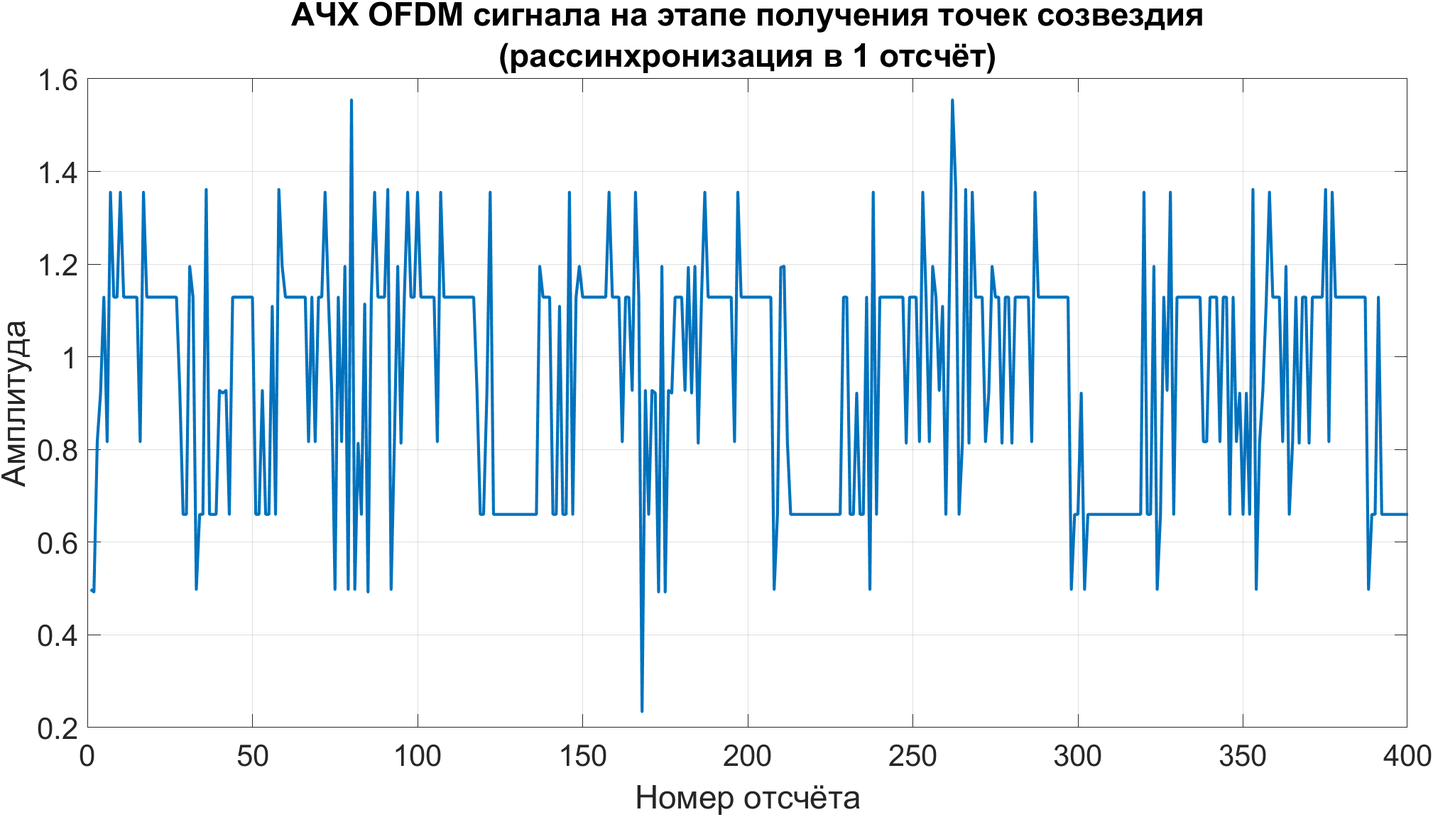
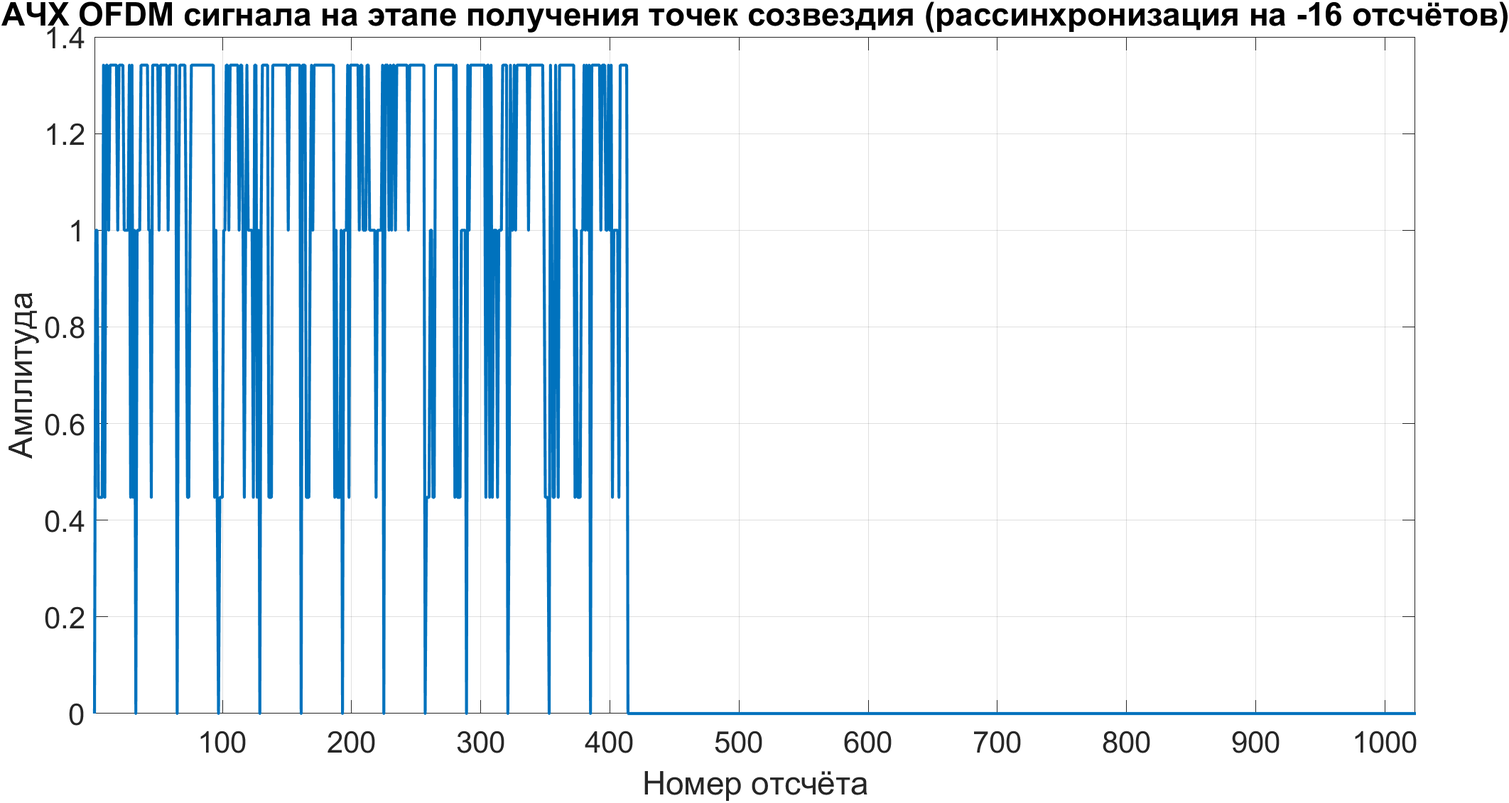
Task 1: fixes made, report reworked

Changed region(s): [[0.0, 0.0, 0.999, 0.9903], [0.9678, 0.8974, 0.999, 0.9593]]

diff --git a/Task 1/Main_model.m b/Task 1/Main_model.m
@@ -23,7 +23,7 @@ input_bits = file_reader(File, Size_Buffer);
 
 %% 3. Формирование полосы
 allCarriers = linspace(1,Nfft,Nfft); % индексы поднесущих
-P = 32;                   % кол-во пилотов
+P = 32;                   % кол-во пилотов на всех Nfft отсчётах
 pilotValue = 3+3j ;        % пилотное значение
 
 pilotCarriers = allCarriers(1:round(Nfft/(P)):end);
@@ -37,43 +37,51 @@ OFDM_symbols = OFDM_symbol(TX_IQ, N_carrier, N_symb, Nfft, dataCarriers, pilotCa
 Tx_OFDM_Signal_matrix = OFDM_modulator(OFDM_symbols, T_Guard); % lab 2
 
 % Tx_OFDM_Signal=Tx_OFDM_Signal_matrix(:);
-% Tx_OFDM_Signal=[Tx_OFDM_Signal_matrix(2:end),0]; % рассинхронизация на 1 отсчёт
-% Tx_OFDM_Signal=[Tx_OFDM_Signal_matrix(round(T_Guard/2)+1:end),zeros(1,round(T_Guard/2))]; % рассинхронизация на T_Guard/2 отсчётов
-Tx_OFDM_Signal=[Tx_OFDM_Signal_matrix(T_Guard+1:end),zeros(1,T_Guard)]; % рассинхронизация на T_Guard отсчётов
+
+%% 5.0 Временная рассинхронизация
+% nSTO = 0;
+% nSTO = 1;                % рассинхронизация на 1 отсчёт
+% nSTO = T_Guard/2;      % рассинхронизация на T_Guard/2 отсчётов
+nSTO = -T_Guard+1;        % рассинхронизация на T_Guard отсчётов
+Tx_OFDM_Signal=add_STO(Tx_OFDM_Signal_matrix(:),nSTO);
+
 %% 5. Канал
 %SNR_dB = 25;
 %[Rx_OFDM_Signal,~] = Noise(SNR_dB, Tx_OFDM_Signal);
-figure();
-plot(mean(abs(fft(Tx_OFDM_Signal_matrix,[],1)),2), 'LineWidth', 2);
-xlabel('Номер отсчёта');
-ylabel('Амплитуда')
-grid on
-set(gca, 'Fontsize', 20)
-title('АЧХ OFDM сигнала')
+% figure();
+% plot(mean(abs(fft(Tx_OFDM_Signal_matrix,Nfft,1)),2), 'LineWidth', 2);
+% xlabel('Номер отсчёта');
+% ylabel('Амплитуда')
+% grid on
+% set(gca, 'Fontsize', 20)
+% title('АЧХ OFDM сигнала')
 
 Rx_OFDM_Signal = Tx_OFDM_Signal;
 
 %% 6. Разделение сигнала на OFDM-символы
 Rx_OFDM_Signal =  reshape(Rx_OFDM_Signal,[Nfft+T_Guard, N_symb]);
 
-
 %% 7. OFDM-Демодуляция: удаление CP + переход в частотную область - получение точек созвездия
 RX_OFDM_symbols = OFDM_demodulator(Rx_OFDM_Signal, T_Guard);
 
-RX_IQ = get_payload(RX_OFDM_symbols,dataCarriers,N_carrier);
 figure();
-% plot(mean(abs((RX_IQ)),2), 'LineWidth', 2);
-plot((abs((RX_IQ(:,2)))), 'LineWidth', 2);
+% plot(mean(abs(RX_OFDM_symbols),2), 'LineWidth', 2);
+plot(abs(RX_OFDM_symbols(:,1)), 'LineWidth', 2);
 xlabel('Номер отсчёта');
 ylabel('Амплитуда')
+xlim([1,Nfft])
 grid on
 set(gca, 'Fontsize', 20)
-title('АЧХ OFDM сигнала на этапе получения точек созвездия')
+title_name = "АЧХ OFDM сигнала на этапе получения точек созвездия (рассинхронизация на " + num2str(nSTO) +" отсчётов)";
+title(title_name)
+
+RX_IQ = get_payload(RX_OFDM_symbols,dataCarriers,N_carrier);
 
 RX_IQ = RX_IQ(:).';
 
-
+title_name = "Созвездие на этапе получения IQ точек (рассинхронизация на " + num2str(nSTO) +" отсчётов)";
 scatterplot(RX_IQ(1:400));
+title(title_name)
 %% 8. Demapping
 output_bits = demapping(pad, RX_IQ, Constellation);
 
@@ -169,4 +177,15 @@ end
 % Извлечь данные из OFDM-символов
 function RX_IQ=get_payload(RX_OFDM_symbols, dataCarriers, N_carrier) 
     RX_IQ=RX_OFDM_symbols(dataCarriers(1:N_carrier),:);
+end
+
+function y_STO=add_STO(y, nSTO)
+    % add STO (symbol time offset)
+    % y : Received signal
+    % nSTO : Number of samples corresponding to STO
+    if nSTO>=0
+        y_STO=[y(nSTO+1:end); zeros(1,nSTO)']; % advance
+    else 
+        y_STO=[zeros(1,-nSTO)'; y(1:end+nSTO)]; % delay
+    end
 end

diff --git a/Task 1/README.md b/Task 1/README.md
@@ -2,37 +2,116 @@
 
 ## Квинтэссенция работы
 В этой работе реализован базовый OFDM приёмник и передатчик в среде программирования Matlab. Пайп лайн сигнала можно увидеть на картинке ниже. В качестве файла для передачи используется картинка орла, которая перводится в битовый формат и затем уже производится QAM-модуляция. При успешном приёме, реализован вывод полученной части картинки.
+
+**Параметры OFDM передачи**
+* Сигнальное созвездие: `16QAM`;
+* Длительной полезной части в количестве fft отсчётов: `N_fft = 1024`
+* Количество поднесущих в одном OFDM символе: `N_carrier = 400`
+* Длина защитного интервала: `T_Guard = Nfft/8`
+* Количество кадров: `Amount_OFDM_Frames = 10`
+* Количество генерируемых OFDM символов: `Amount_OFDM_Symbols_per_Frame = 5`
+
 ![Alt-text](<graphs/task1.png>)
-<img src="graphs/eagle.jpg" alt="Alt-text"  />
+_Рисунок №1. Пайплайн OFDM-системы_
 
-## АЧХ сигнала на основе OFDM
-Ниже представлен график амплитудно-частотной характеристики (АЧХ) OFDM-сигнала. Если быть точнее, то это усреднённая по 50 единицам АЧХ одного OFDM-символа. Сама АЧХ построена по уже сформированному OFDM-сигналу во времённой области путём взятия прямого пробразования Фурье. В силу этого, помимо полезной части сам сигнал содержит защитный интервал длиной в `T_guard=Nfft/8` отсчётов. В силу этого, на графике АЧХ можно наблюдать спектральные компоненты, которые вносят эти отчёты. В остальном, график такой, какой и ожидался: `N_carrier=400 отсчётов`, на которых мы "расположили" наши данные. 
+![Alt-text](<graphs/eagle.jpg>)
 
-_Отдельно стоит заметить, что в АЧХ выделяются резкие отрицательные пики в полосе полезного сигнала, а также количество отсчётов, где наблюдается ненулевая амплитуда, больше чем N_carrier. Так происходит в силу наличия пилотных поднесущих, которые заготовлены для будущего. Сейчас на эти "пилотные" поднесущие записывается нулевое значение, отсюда отрицательные пики вниз - если построить АЧХ одного символа, то они будут отчётливо видны, но поскольку здесь график усреднения, то они не достигают 0.__
-![Alt-text](<graphs/achx.png>)
-
+_Рисунок №2. Передаваемая картинка_
 ## Cтруктура OFDM-символа
-* Защитный интервал: это некоторое количество отсчётов сигнала, вставляемое между символами OFDM для уменьшения эффектов многолучевых помех, таких как отражения сигнала и разные задержки лучей этого сигнала. Это обеспечивает ортогональность между поднесущими, позволяя правильно разделять их в приемнике. Соответственно, минимальная длительность защитного интервала выбирается исходя из максимальной задержки в рассматриваемом канале. Защитный интервал обычно является копией конечной части символа OFDM, добавляемой в начале - cyclic prefix.
-* Data carriers: это поднесущие, которые передают фактические данные. Каждая поднесущая модулируется частью общего потока данных.
-* Pilot Carriers: это известные символы, вставляемые в символ OFDM, для осуществления оценки канала и эквалайзинга на приемнике. Они обеспечивают контрольные точки для определения канальной характеристики и её компенсации.
+* Защитный интервал: это часть сигнала, вставляемая между символами OFDM для сохранения возможности демодуляции OFDM-сигнала в присутствии многолучевых помех, таких как отражения сигнала и разные задержки лучей этого сигнала. Защитный интервал обеспечивает ортогональность между символами, позволяя правильно разделять их в приемнике. Соответственно, минимальная длительность защитного интервала выбирается исходя из максимальной задержки в рассматриваемом канале. В данной работе защитный интервал реализован в виде копии конечной части символа OFDM, добавляемой в начало этого же символа (cyclic prefix).
+![Alt-text](<graphs/GI.png>)
+_Рисунок №3. Схема добавления защитного интервала по принципу циклического префикса_
+* Data carriers: это поднесущие, которые передают фактические данные. Каждая поднесущая содержит в себе информацию об IQ-точке из общего потока данных.
+* Pilot Carriers: это поднесущие, которые содержат в себе известные значения для осуществления оценки канала и эквалайзинга на приемнике. Пилоты встраиваются в сигнал вместе с данными на этапе формирования полосы сигнала. Они обеспечивают контрольные точки для определения канальной характеристики и её компенсации.
 * Null Carriers _(опционально)_: в некоторых системах OFDM определенные поднесущие могут не использоваться для передачи данных или контрольных символов. Эти нулевые несущие помогают в дальнейшем уменьшении помех между соседними поднесущими.
 ![Alt-text](<graphs/symbol_structure_2.png>)
+_Рисунок №4. Структура OFDM-символа в частотной области_
+
+## АЧХ сигнала на основе OFDM
+На рисунке № 5 представлен график амплитудно-частотной характеристики (АЧХ) OFDM-сигнала. Если быть точнее, то это усреднённая по 50 единицам АЧХ одного OFDM-символа. Сама АЧХ построена по уже сформированному OFDM-сигналу во времённой области путём взятия прямого пробразования Фурье. В силу усреднения можно наблюдать различные уровни амплитуды внутри эффективной полосы сигнала (у АЧХ одного OFDM-символа набор значений амплитуд меньше, см. рисунок №4). Также отчётливо видны пилотные поднесущие, которые всё так же принимают нулевое значение. В целом, график такой, какой и ожидался: `N_carrier=400 отсчётов`, на которых мы "расположили" наши данные и пилотные значения. 
+
+__Ремарка насчёт пилотов: вообще, в данной работе не подразумевается их наличие. Здесь они присутствуют в силу следующих причин: 1) удобство для будущего кода; 2) большая наглядность, для чего пилотным поднесущим и было присвоено нулевое значение - его легко обнаружить на графике.__
+![Alt-text](<graphs/achx.png>)
+_Рисунок №5. Усреднённая по всему сигналу АЧХ одного OFDM-символа_
 
 ## АЧХ и сигнальное созвездие на этапе «получение точек созвездия»
+Рассмотрим всего 4 случая (case): 
+1. Идеальная временная синхронизация - когда мы правильно определили начало символа;
+2. Ситуация, когда мы предполагаем начало OFDM-символа до действительного начала этого символа, но после максимальной задержки в канале;
+3. Ситуация, когда мы предполагаем начало OFDM-символа до действительного начала этого символа, но теперь до максимальной задержки в канале;
+4. Ситуация, когда мы предполагаем начало OFDM-символа позже действительного его начала. 
+   
+![Alt-text](<graphs/cases.png>)
+_Рисунок №6. Различные случаи временной рассинхронизации_
 
-* АЧХ одного символа для разной рассинхронизации
+Все эти случаи показаны на `рисунке №6`. Теперь же посмотрим на АЧХ и сигнальное созвездие для каждого случая, за исключением 3, поскольку в рамках этой работы не предполагается моделирование многолучевого распространения, в силу чего для этого случая будет только приведено объяснение происходящего.
+
+### Случай 1. Идеальная временная синхронизация
 ![Alt-text](<graphs/achx1.png>)
-![Alt-text](<graphs/achx2.png>)
-![Alt-text](<graphs/achx3.png>)
-![Alt-text](<graphs/achx4.png>)
+_Рисунок №7. АЧХ при идеальной временной синхронизации_
 
-* Созвездие на этапе получения IQ-точек на приёмнике для разной рассинхронизации
 ![Alt-text](<graphs/scatter1.png>)
+_Рисунок №8. Сигнальное созвездие при идеальной временной синхронизации_
+
+Как и ожидалось, сигнальное созвездие является эталонным созвездием для выбранного типа модуляции - 16QAM, а АЧХ в точности совпадает с графиками рассмотренными ранее, например, на рисунке №4.
+
+### Случай 2. Опережение синхронизации (после максимальной задержки)
+![Alt-text](<graphs/achx2.png>)
+_Рисунок №9. АЧХ при опережении синхронизации_
+
 ![Alt-text](<graphs/scatter2.png>)
+_Рисунок №10. Сигнальное созвездие при опережении синхронизации_
+
+Как можно видеть, АЧХ не проявляет каких-либо видимых изменений, в то время как сигнальное созвездие "закрутилось". Из курса по одночастотной связи известно, что такое происходит при фазовой рассинхронизации, из чего можно выдвинуть предположение, что такой случай временной рассинхронизации приводит к фазовому сдвигу сигнала. Убедимся в этом с помощью математики:
+![Alt-text](<graphs/case2.png>)
+_Рисунок №11. Объяснение случая №2: опережения синхронизации_
+
+**Таким образом, опережение синхронизации приводит к фазовому сдвигу и как мы увидим далее - пожалуй, это наиболее легко компенсируемый случай временной рассинхронизации.**
+
+### Случай 3. Сильное опережение синхронизации (до максимальной задержки)
+![Alt-text](<graphs/achx3.png>)
+_Рисунок №12. АЧХ при сильном опережении синхронизации_
+
 ![Alt-text](<graphs/scatter3.png>)
+_Рисунок №13. Сигнальное созвездие при сильном опережении синхронизации_
+
+АЧХ и сигнальное созвездие мало чем отличается от случая 2, поскольку как уже было отмечено ранее, в этой работе не моделируется многолучевое распространение. Но объяснение следующее: синхронизация символов слишком ранняя для предотвращения межсимвольной интерференции (ISI). В этом случае ортогональность между символами нарушается из-за ISI (от предыдущего символа), и, более того, происходит межканальная интерференция (ICI).
+
+![Alt-text](<graphs/case3.png>)
+_Рисунок №14. Сигнальное созвездие при сильном опережении синхронизации с многолучевым распространением_
+
+**Таким образом, сильное опережение синхронизации приводит к межсимвольной интерференции (ISI) и межканальная интерференции (ICI), поскольку наш текущий символ "накладывается" на задержанный предыдущий символ.**
+
+### Случай 4. Задержка синхронизации
+![Alt-text](<graphs/achx4.png>)
+_Рисунок №15. АЧХ при задержке синхронизации в 1 отсчёт_
+
 ![Alt-text](<graphs/scatter4.png>)
+_Рисунок №16. Сигнальное созвездие при задержке синхронизации в 1 отсчёт_
 
-Как можно заметить, при появлении временной рассинхронизации значения амплитуды начинают "прыгать", а созвездие сначала закручивается, а затем разъезжается. На мой взгляд, это вызвано нарушением ортогональности OFDM-символов.
+![Alt-text](<graphs/achx4_1.png>)
+_Рисунок №17. АЧХ при задержке синхронизации в T_Guard/2 отсчётов_
 
-Полученная картинка:
+![Alt-text](<graphs/scatter4_1.png>)
+_Рисунок №18. Сигнальное созвездие при задержке синхронизации в T_Guard/2 отсчётов_
+
+![Alt-text](<graphs/achx4_2.png>)
+_Рисунок №19. АЧХ при задержке синхронизации в T_Guard отсчётов_
+
+![Alt-text](<graphs/scatter4_2.png>)
+_Рисунок №20. Сигнальное созвездие при задержке синхронизации в T_Guard отсчётов_
+
+Как можно видеть на графиках АЧХ для трёх случаев задержки синхронизации, амплитуды начинают изменяться и "прыгать". Сигнальные созвездия сначала "закручиваются", а потом и меняются по амплитуде своих точек. Таким образом, наблюдаются как фазовые сдвиги, так и амплитудные скачки. Можно предположить, что это происходит в силу межсимвольной интерференции (ISI). Убедимся в этом:
+
+![Alt-text](<graphs/case4.png>)
+_Рисунок №21. Объяснение происходящего при задержке синхронизации_
+
+**В последней строке наших выкладок второй член говорит о наличии межканальной интерференции (ICI) (если учесть многолучевое распространение, то из рисунка №6 понятно, что ICI следовало ожидать). А третий член в этой же последней строке свидетельствует о присутствии межсимвольной интерференции (ISI).**
+
+**Таким образом, задержка синхронизации приводит к межсимвольной интерференции (ISI) и межканальная интерференции (ICI).**
+
+
+И напоследок, вот что получится, если идеально всё скомпенсировать:
 <img src="graphs/rx_pic.png" alt="Alt-text" style="zoom: 33%;" />
+
+_Рисунок №22. Принятая картинка_
